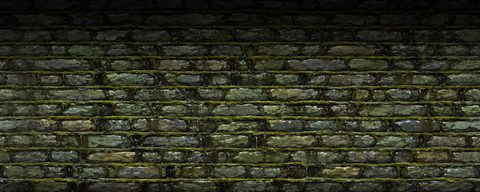
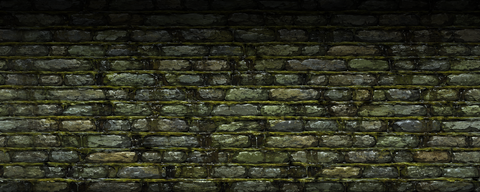
石壁のブロックの角を丸める (廃坑・沼地の立面/天面 4 枚)
ユーザー指摘「壁の場所大きさ配置は、そのままで大丈夫です。真四角すぎるので、壁のブロックに丸みを少しだけ持たせれますか？」

・大きさを動かさないため源画像の描き直し (ChatGPT 再発注) は採らず、出荷済みの絵への後処理で閉じた。源を差し替えるとブロック径が「源に写っている石の個数」で決まり直すので、「大きさはそのままで大丈夫」を壊す。

・手法 = 2値の石マスクに対する opening (erode -> dilate、半径 r の disc)。石の面の内部と目地の内部はマスクが前後で一致するので 1 ビットも変わらず、凸角だけが近傍の目地色へ食い込む。目地の位置も石の中心も動かない。

・⚠ 輝度そのものをグレースケール opening する版は実測して却下した。写真的な粒やヒビまで「小さな明部」として削るので、沼地の立面で画素の 64.2% が動き、平均 L -12.2% / SD 33.0->27.5 と全面が暗く平らになる (2026-08-08 の「ただの白い幕」SD -30% と同型の失敗)。2値化してからは corner 9.5〜18.9% / 平均 L -1.1〜-3.6% / SD -0.6〜-1.4% に収まる。

・レシピ: 立面 --round 2.0 (ブロック 25x12.9〜15px) / 天面 --round 2.5 (18.4〜20.1px)。--round 0 では既存 4 枚と md5 がビット一致する (負のコントロール)。

・沼地天面の横継ぎ目 14.91/14.77 は、HEAD 時点で既に 15.21/15.07 と同じ比率 (1.009)。回帰ではないので feather は触らない (触るとブロック径が動く)。

検証:
・driver_wall_face 27/27 (立面の水平エッジ = 廃坑 15.22 倍 / 沼地 13.75 倍 = 幕ではない)、driver_wall_props 29/29。
・field_step2 の D1-goblin-mine (描画コマンドの引数列) が golden と完全一致 = 今回の変更は描画命令を 1 つも増やしていない (純粋に画素だけ)。
・golden 6 件更新。差分は goblin-mine / lizard-swamp / bandits-forest の 3 テーマのみで、砦・神殿・竜巣・街道はビット一致。うち bandits-forest と field_* 側の lizard-swamp は d23a476 / c020ac2 が golden を更新し忘れた分の取りこぼし (アセットを HEAD へ戻して field_step1 を回すと 93/95 で森と沼地は既に赤だった)。
・更新なしで再実行して mapdef_step1 200/200 / field_step1 95/95 / field_step1_geo 71/71 / field_step2,3 FAIL 0 / mapeditor_waterkit 138/138。

diff --git a/tavern.html b/tavern.html
@@ -1984,10 +1984,10 @@
     <div id="changelogBox">
       <div class="changelogHeader">📜 更新情報</div>
       <ul class="changelogList">
+        <li><b>石壁のブロックの角を丸めた</b> — 廃坑と沼地の壁が、切りそろえた煉瓦から風化した石積みらしい表情になった。</li>
         <li><b>沼地の壁を苔むした石の護岸に</b> — 白っぽくのっぺりしていた壁が、湿った丸石を積んだ護岸になった。</li>
         <li><b>沼地の壁の樹木がはっきり見えるように</b> — 石垣に沈んでいたマングローブの葉が鮮やかになり、白っぽかった気根も落ち着いた色になった。</li>
         <li><b>沼地と森の壁に木々が生えた</b> — 石垣一色だった部屋の縁に、上から見たマングローブや木立が並ぶようになった。</li>
-        <li><b>分岐マップの山場とボスの部屋に絵がついた</b> — 6シナリオそれぞれの大乱戦の部屋とボスの部屋が、轍や骨や苔まで描き込まれた床になった。</li>
       </ul>
     </div>
     <script>

diff --git a/tools/wall_round.py b/tools/wall_round.py
@@ -1,0 +1,113 @@
+#!/usr/bin/env python3
+# -*- coding: utf-8 -*-
+"""石壁テクスチャの「石ブロック 1 個 1 個の角」を丸めるフィルタ。
+make_wall_face.py / make_wall_top.py から --round で呼ばれる。アセット製造時のみ。
+
+ユーザー指摘 (2026-08-14):
+  「壁の場所大きさ配置は、そのままで大丈夫です。真四角すぎるので、
+    壁のブロックに丸みを少しだけ持たせれますか？」
+
+⭐⭐ **大きさを変えずに角だけ落とす**のが要件なので、源画像の描き直し (ChatGPT 再発注) は
+   採らない。源を差し替えると石の個数が変わり = ブロック径が動く = 「大きさはそのままで
+   大丈夫」を壊す (project-room-stone-walls の実測: ブロック径は源の石の個数で決まる)。
+   → 出荷済みの絵に対する**後処理**で閉じる。負のコントロールとして --round 0 では
+   1 バイトも変わらない (既存 4 枚の md5 で実測済み)。
+
+手法 = **2 値の目地マスクに対する opening** (erode -> dilate、半径 r の disc):
+  1. 輝度を「ブロック尺度の局所平均」と比べて 2 値化する。明 = 石の面 / 暗 = 目地。
+  2. そのマスクを opening する。erode で石が r だけ痩せ、dilate で太り戻るが、
+     **凸角は disc の形にしか戻らない = 丸まる**。
+  3. 「元は石だったが opening で消えた画素」= 角だけを取り出し、その画素だけを
+     近傍の**目地の色** (半径 r+1 の min フィルタ) へブレンドする。
+  石の面の内部・目地の内部はマスクが opening 前後で一致するので**1 ビットも変わらない**。
+  目地の位置も石の中心も動かず、角が r だけ削れるだけになる。
+
+⚠⚠ **輝度そのものをグレースケール opening してはいけない** (2026-08-14 に実測して却下)。
+   写真的な粒・ヒビ・苔の斑まで「小さな明部」として除去対象になるため、沼地の立面では
+   **画素の 64.2%** が動き、平均 L -12.2% / SD 33.0 -> 27.5 と**全面が暗く平らになった**。
+   これは 2026-08-08 の「ただの白い幕」(SD -30%) と同型の失敗。角だけを動かしたいなら
+   マスクを 2 値にして「石か目地か」の判定へ落とすこと。効いた画素の割合をログに出して
+   いるのはこの罠を再発時に一目で捕まえるため (角だけなら **数 %** で収まる)。
+
+⚠ 端は 'edge' 複製で埋める。シームレス化 (feather のクロスフェード) は**この後**に走るので、
+  ここで wrap する必要はない。順序を入れ替えないこと。
+
+⚠ ログは ASCII のみ。Windows の cp932 パイプへ日本語を混ぜると項目ごと化けて grep が死ぬ。
+"""
+
+import numpy as np
+
+
+def lum(a):
+    return 0.2126 * a[..., 0] + 0.7152 * a[..., 1] + 0.0722 * a[..., 2]
+
+
+def _disc(radius):
+    """半径 radius の disc に入る (dy, dx) の一覧。"""
+    r = int(np.ceil(radius))
+    return [(dy, dx)
+            for dy in range(-r, r + 1)
+            for dx in range(-r, r + 1)
+            if dy * dy + dx * dx <= radius * radius + 1e-9]
+
+
+def _morph(a, offsets, op):
+    """offsets 分だけずらした版を op (np.minimum / np.maximum) で畳む。"""
+    h, w = a.shape
+    r = max(max(abs(dy), abs(dx)) for dy, dx in offsets)
+    pad = np.pad(a, r, mode="edge")
+    out = None
+    for dy, dx in offsets:
+        v = pad[r + dy:r + dy + h, r + dx:r + dx + w]
+        out = v if out is None else op(out, v)
+    return out
+
+
+def box_blur(a, half):
+    """一辺 2*half+1 の箱ぼかし (分離可能)。half <= 0 なら素通し。"""
+    half = int(half)
+    if half <= 0:
+        return a
+    k = 2 * half + 1
+    h, w = a.shape
+    cs = np.cumsum(np.pad(a, ((half + 1, half), (0, 0)), mode="edge"), axis=0)
+    a1 = (cs[k:, :] - cs[:-k, :]) / k
+    cs = np.cumsum(np.pad(a1, ((0, 0), (half + 1, half)), mode="edge"), axis=1)
+    a2 = (cs[:, k:] - cs[:, :-k]) / k
+    assert a2.shape == (h, w), "box_blur が形を変えた: %s -> %s" % ((h, w), a2.shape)
+    return a2
+
+
+def round_blocks(rgb, radius, strength=1.0, soften=1, presmooth=2,
+                 scale=10, thresh=1.0, verbose=True):
+    """rgb (float32 HxWx3) の石ブロックの凸角を半径 radius で丸めて返す。
+
+    radius   … 削る量 (出力 px)。ブロック径の 1 割前後が「少しだけ」の目安
+    strength … 削りの効き (1.0 = 目地色そのもの / 0.5 = 半分だけ寄せる)
+    soften   … 角マスクの箱ぼかし半幅。0 だと角がギザギザに欠ける
+    presmooth… 2 値化前の箱ぼかし半幅 (粒状ノイズで判定が虫食いになるのを防ぐ)
+    scale    … 「石か目地か」を測る局所平均の箱ぼかし半幅。ブロック径の半分が目安
+    thresh   … 局所平均の何倍より明るければ石とみなすか
+    """
+    if radius <= 0:
+        return rgb
+    L = lum(rgb)
+    Lb = box_blur(L, presmooth)
+    mask = (Lb > box_blur(Lb, scale) * thresh).astype(np.float32)   # 1=石の面 / 0=目地
+    disc = _disc(radius)
+    opened = _morph(_morph(mask, disc, np.minimum), disc, np.maximum)
+    corner = np.clip(mask - opened, 0.0, 1.0)                       # opening で消えた角だけ
+    w = np.clip(box_blur(corner, soften) * float(strength), 0.0, 1.0)
+    big = _disc(radius + 1.0)
+    mortar = np.stack([_morph(rgb[..., c], big, np.minimum) for c in range(3)], axis=-1)
+    out = np.clip(rgb * (1.0 - w)[..., None] + mortar * w[..., None], 0.0, 255.0)
+    if verbose:
+        Lo = lum(out)
+        print("round r=%.1f strength=%.2f soften=%d scale=%d thresh=%.3f | "
+              "stone %.1f%% / corner %.1f%% | meanL %.1f -> %.1f (%+.1f%%) | SD %.1f -> %.1f"
+              % (radius, strength, soften, scale, thresh,
+                 100.0 * float(mask.mean()), 100.0 * float((w > 0.02).mean()),
+                 float(L.mean()), float(Lo.mean()),
+                 100.0 * (float(Lo.mean()) / max(float(L.mean()), 1e-6) - 1.0),
+                 float(L.std()), float(Lo.std())))
+    return out

diff --git a/tools/make_wall_face.py b/tools/make_wall_face.py
@@ -58,6 +58,8 @@ import sys
 import numpy as np
 from PIL import Image
 
+from wall_round import round_blocks
+
 
 def lum(a):
     return 0.2126 * a[..., 0] + 0.7152 * a[..., 1] + 0.0722 * a[..., 2]
@@ -94,6 +96,9 @@ def main():
     p.add_argument("--plinth", type=int, default=10, help="最下部の基礎(暗い帯)の高さ")
     p.add_argument("--gamma", type=float, default=0.85, help="中間調の持ち上げ (1未満で明るく)")
     p.add_argument("--cool", type=float, default=1.05, help="青へ寄せる倍率 (寒色 = 暖色の床と分離)")
+    p.add_argument("--round", type=float, default=0.0, help="石の凸角を丸める半径(出力px)。0=無効")
+    p.add_argument("--round-strength", type=float, default=1.0, help="丸めの効き (1.0=そのまま)")
+    p.add_argument("--round-soften", type=int, default=1, help="丸めマスクの箱ぼかし半幅")
     a = p.parse_args()
 
     src = Image.open(a.src).convert("RGB")
@@ -121,6 +126,14 @@ def main():
     print("crop y0=%d (下端 y=%d が目地: %s)  内側の目地(相対)=%s"
           % (y0, y0 + a.height, bool(cands), [j - y0 for j in jr if 0 < j - y0 < a.height]))
     img = res[y0:y0 + a.height, :, :].copy()
+
+    # ★[石の角を丸める 2026-08-14] ユーザー指摘「真四角すぎるので、壁のブロックに丸みを
+    #   少しだけ持たせれますか」。詳細と手法は tools/wall_round.py の docstring。
+    # ⚠ **クロスフェードより前**に掛ける。後ろに回すと左端 feather 列だけ丸めが二重に
+    #   掛かった絵と混ざり、横の継ぎ目に縦の筋が出る。
+    # ⚠ **縦のライティングより前**に掛ける。後ろだと基礎の暗い帯 (v[lip:] *= 0.60) が
+    #   「暗い = 目地」と判定され、床際の 1 コースだけ角が過剰に削れる。
+    img = round_blocks(img, a.round, a.round_strength, a.round_soften)
 
     # 横シームレス化: 余りの feather 列を本体の左端へクロスフェード
     body = img[:, :W_out, :].copy()

diff --git a/tools/make_wall_top.py b/tools/make_wall_top.py
@@ -60,6 +60,8 @@ import sys
 import numpy as np
 from PIL import Image
 
+from wall_round import round_blocks
+
 
 def lum(a):
     return 0.2126 * a[..., 0] + 0.7152 * a[..., 1] + 0.0722 * a[..., 2]
@@ -95,6 +97,9 @@ def main():
     p.add_argument("--feather", type=int, default=48, help="継ぎ目ぼかし幅")
     p.add_argument("--block", type=float, default=72.0, help="目標のブロック径(px)")
     p.add_argument("--gamma", type=float, default=1.0)
+    p.add_argument("--round", type=float, default=0.0, help="石の凸角を丸める半径(出力px)。0=無効")
+    p.add_argument("--round-strength", type=float, default=1.0, help="丸めの効き (1.0=そのまま)")
+    p.add_argument("--round-soften", type=int, default=1, help="丸めマスクの箱ぼかし半幅")
     a = p.parse_args()
 
     src = Image.open(a.src).convert("RGB")
@@ -115,6 +120,10 @@ def main():
           % (W_r, W_r, W_r / src.width, period_src * W_r / src.width, a.block))
 
     res = np.asarray(src.resize((W_r, W_r), Image.LANCZOS)).astype(np.float32)
+    # ★[石の角を丸める 2026-08-14] 手法は tools/wall_round.py の docstring。
+    # ⚠ **wrap_feather より前**に掛ける。後ろだと本体とテールで丸めの位相が食い違い、
+    #   せっかく消した継ぎ目が縦横 1 本ずつ戻る。
+    res = round_blocks(res, a.round, a.round_strength, a.round_soften)
     body = wrap_feather(res, W_out, a.feather, axis=1)     # 横
     body = wrap_feather(body, W_out, a.feather, axis=0)    # 縦
     if a.gamma != 1.0:
